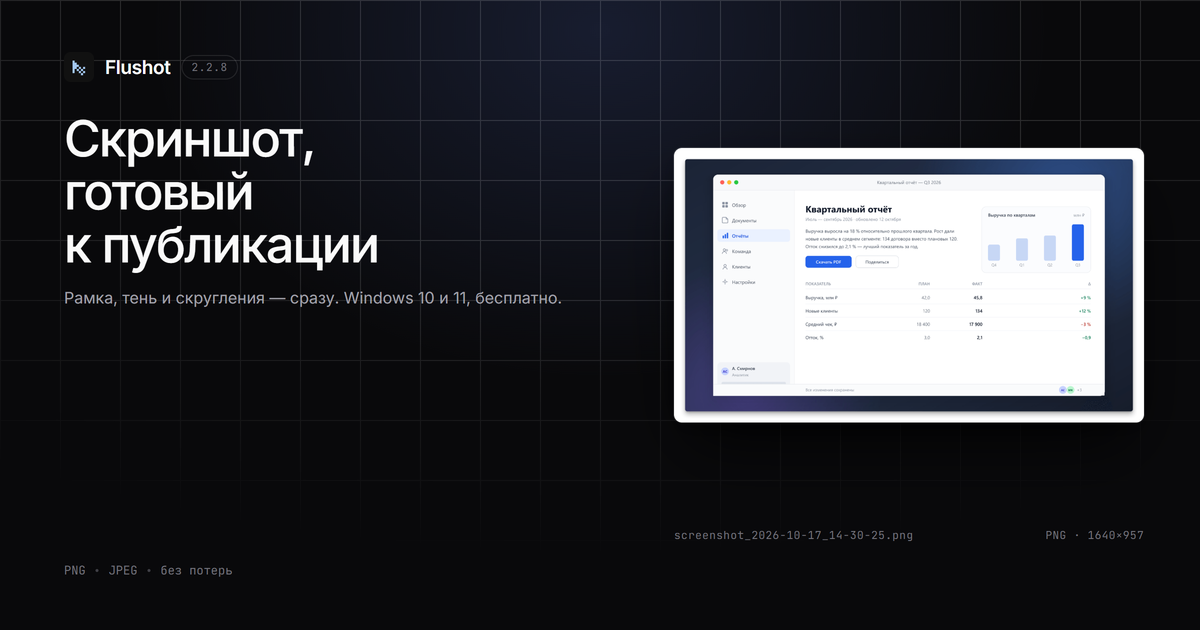
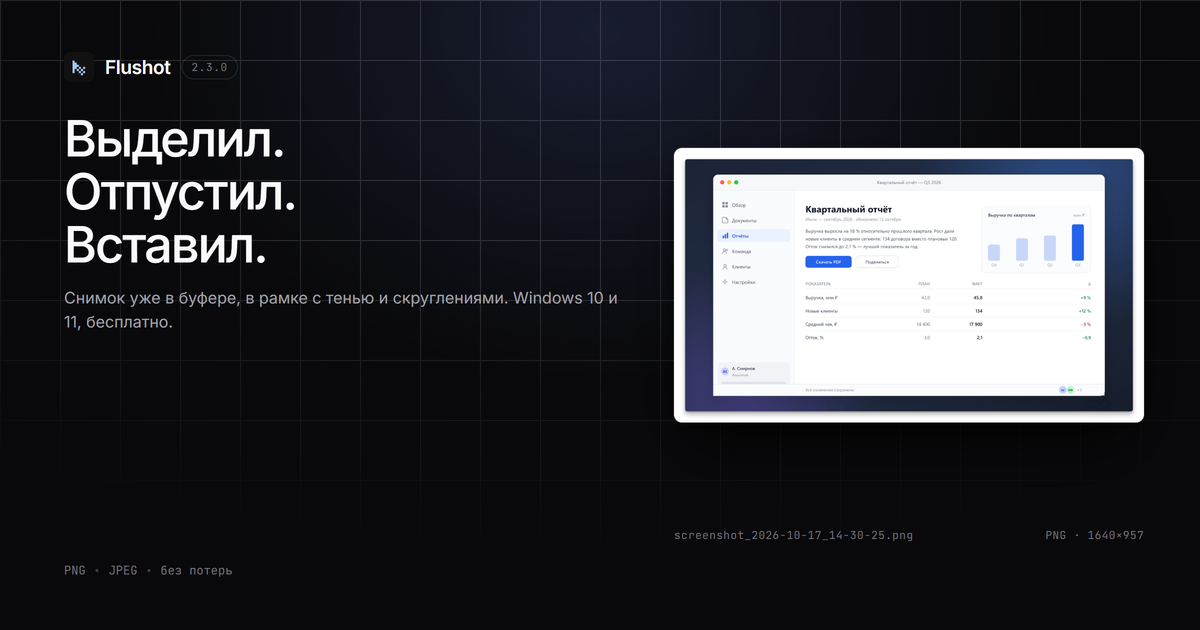
Say on the site what the release actually does, and record what is still weak
The headline promised framing, not speed, so the one thing the release changes was
invisible to anyone arriving from a link: a stranger read "скриншот за пару
секунд" and had no reason to think the copy step was gone. The hero now says it in
three words, and the walkthrough lost a step because there is no longer a third
one.

The feature block keeps nine cards. A tenth would have left a lone card on the
last row and pulled the bottom border off the two above it — the block is drawn as
one bordered box with hairline seams, so its cell count is part of the layout, not
a free parameter. The new card took the place of the one whose content moved into
its neighbour.

`docs/ROADMAP.md` gained the audit: what works but fails at the wrong moment, in
order of cost to benefit. Its first row is the honest one — the app cannot update
itself and never tells anyone a new version exists, which is how a fixed defect
stays broken on every machine that installed the old build.

The share archives were rebuilt from the 2.3.0 build and the note inside says what
the release does, including the cases where releasing the mouse deliberately does
not copy.

Changed region(s): [[0.0308, 0.181, 0.3392, 0.4222], [0.0308, 0.4524, 0.5242, 0.5429]]

diff --git a/site/index.html b/site/index.html
@@ -29,7 +29,7 @@
 <link rel="apple-touch-icon" href="apple-touch-icon.png?v=980e5cca">
 <link rel="manifest" href="site.webmanifest?v=06f0995b">
 <link rel="stylesheet" href="fonts.css?v=0b21389f">
-<link rel="stylesheet" href="styles.css?v=8ecff7f0">
+<link rel="stylesheet" href="styles.css?v=79581812">
 <link rel="preload" as="image" href="assets/hero.webp?v=8e6805fc" type="image/webp">
 
 <script>
@@ -59,7 +59,7 @@
            22 px, and declaring the intrinsic size keeps the aspect ratio honest. -->
       <img class="brand__mark" src="favicon.svg?v=a7643679" width="200" height="200" alt="" aria-hidden="true">
       <span class="brand__name">Flushot</span>
-      <span class="brand__ver">2.2.8</span>
+      <span class="brand__ver">2.3.0</span>
     </a>
 
     <button class="nav-toggle" type="button" aria-expanded="false" aria-controls="nav" aria-label="Меню">
@@ -94,15 +94,16 @@
   <section class="hero" id="top">
     <div class="hero__grid" aria-hidden="true"></div>
     <div class="wrap hero__inner">
-      <p class="eyebrow" data-rise style="--d: 0.05s">Windows 10 и 11 · версия 2.2.8 · бесплатно</p>
+      <p class="eyebrow" data-rise style="--d: 0.05s">Windows 10 и 11 · версия 2.3.0 · бесплатно</p>
       <h1 class="hero__title" data-rise style="--d: 0.1s">
-        <span>Скриншот</span>
-        <span>за пару секунд</span>
-        <span>и без возни.</span>
+        <span>Выделил.</span>
+        <span>Отпустил.</span>
+        <span>Вставил.</span>
       </h1>
       <p class="hero__sub" data-rise style="--d: 0.16s">
-        Выделили область — снимок уже в рамке, с мягкой тенью и скруглёнными углами.
-        Ровная линия для подчёркивания, снимок всего экрана одной клавишей, PNG без потерь.
+        Между горячей клавишей и <kbd>Ctrl</kbd>+<kbd>V</kbd> больше нет ни одного нажатия: снимок
+        оказывается в буфере обмена в тот момент, когда вы отпустили кнопку мыши. Уже в рамке,
+        с мягкой тенью и скруглёнными углами.
       </p>
       <div class="hero__actions" data-rise style="--d: 0.22s">
         <a class="btn btn--primary btn--lg" href="#download">
@@ -140,6 +141,15 @@
       </div>
 
       <div class="feature-grid">
+        <article class="feature">
+          <div class="feature__mark" aria-hidden="true">
+            <svg viewBox="0 0 24 24" fill="none" stroke="currentColor" stroke-width="1.8" stroke-linecap="round" stroke-linejoin="round"><rect x="4" y="4" width="16" height="16" rx="3" stroke-dasharray="3 3"/><path d="M8 12h8"/><path d="M13 9l3 3-3 3"/></svg>
+          </div>
+          <h3 class="feature__name">Сразу в буфере</h3>
+          <p class="feature__text">Отпустили кнопку мыши — снимок готов к вставке. Ни <kbd>Ctrl</kbd>+<kbd>C</kbd>, ни лишнего окна.</p>
+          <p class="feature__tag">выделил → вставил</p>
+        </article>
+
         <article class="feature">
           <div class="feature__mark" aria-hidden="true">
             <svg viewBox="0 0 24 24" fill="none" stroke="currentColor" stroke-width="1.8" stroke-linecap="round"><path d="M4 17h16"/><circle cx="4" cy="17" r="1.6"/><circle cx="20" cy="17" r="1.6"/></svg>
@@ -187,19 +197,10 @@
 
         <article class="feature">
           <div class="feature__mark" aria-hidden="true">
-            <svg viewBox="0 0 24 24" fill="none" stroke="currentColor" stroke-width="1.8" stroke-linecap="round"><rect x="3" y="3" width="18" height="18" rx="3"/><path d="M7 15h10"/></svg>
-          </div>
-          <h3 class="feature__name">Кнопки не пропадают</h3>
-          <p class="feature__text">Выделили весь экран — панель с кнопками осталась на виду, искать её по краям не нужно.</p>
-          <p class="feature__tag">даже у края экрана</p>
-        </article>
-
-        <article class="feature">
-          <div class="feature__mark" aria-hidden="true">
             <svg viewBox="0 0 24 24" fill="none" stroke="currentColor" stroke-width="1.8" stroke-linecap="round"><path d="M3 8V4h4M21 8V4h-4M3 16v4h4M21 16v4h-4"/><path d="M9 12h6"/></svg>
           </div>
           <h3 class="feature__name">Живой размер</h3>
-          <p class="feature__text">Размер в пикселях обновляется, пока тянете рамку. Рамку можно двигать целиком и менять за любой край.</p>
+          <p class="feature__text">Размер в пикселях обновляется, пока тянете рамку. Рамку можно двигать целиком, менять за любой край — и панель никогда не уезжает за экран.</p>
           <p class="feature__tag">1280 × 720 px</p>
         </article>
 
@@ -246,7 +247,7 @@
         <div class="pitch">
           <div class="section-head" style="margin-bottom: 0">
             <p class="eyebrow">Как это работает</p>
-            <h2 class="section-title" id="how-title">Три шага, пара секунд</h2>
+            <h2 class="section-title" id="how-title">Два шага, одно вставление</h2>
           </div>
 
           <ol class="pitch__list">
@@ -256,17 +257,13 @@
             </li>
             <li class="pitch__item">
               <span class="pitch__num" aria-hidden="true">2</span>
-              <span><strong>Выделите область.</strong> Размер показан рядом с рамкой и обновляется на ходу. Отпустили мышь — снимок готов.</span>
-            </li>
-            <li class="pitch__item">
-              <span class="pitch__num" aria-hidden="true">3</span>
-              <span><strong><kbd>Ctrl</kbd>+<kbd>C</kbd> или <kbd>Ctrl</kbd>+<kbd>S</kbd>.</strong> Снимок уходит в буфер или в папку — с датой в имени, поэтому ничего не перезаписывается.</span>
+              <span><strong>Отпустите мышь.</strong> Размер показан рядом с рамкой и обновляется на ходу. В момент отпускания снимок уже в буфере обмена — остаётся нажать <kbd>Ctrl</kbd>+<kbd>V</kbd> там, куда его вставляете.</span>
             </li>
           </ol>
 
           <p class="pitch__meta">
             <svg width="13" height="13" viewBox="0 0 24 24" fill="none" stroke="currentColor" stroke-width="2.4" stroke-linecap="round" stroke-linejoin="round" aria-hidden="true"><path d="M20 6L9 17l-5-5"/></svg>
-            PNG без потерь · JPEG и WebP по желанию
+            PNG без потерь · файл в папке · пометки по <kbd>Shift</kbd>
           </p>
         </div>
       </div>
@@ -513,7 +510,7 @@
     <div class="wrap">
       <div class="section-head">
         <p class="eyebrow">Скачать</p>
-        <h2 class="section-title" id="download-title">Версия 2.2.8 для Windows</h2>
+        <h2 class="section-title" id="download-title">Версия 2.3.0 для Windows</h2>
         <p class="section-lead">Три варианта одной и той же сборки. Программа внутри одинаковая — выбирайте по способу установки.</p>
       </div>
 
@@ -525,16 +522,16 @@
           </div>
           <p class="dl-card__text">Распаковать в любую папку и запустить <code>Flushot.exe</code>. Ничего не устанавливается, временная папка Windows не нужна.</p>
           <p class="dl-card__meta"><span>161 МБ</span><span>ZIP</span><span>без установки</span></p>
-          <a class="btn btn--primary" href="https://github.com/aeshtlv/Flushot/releases/latest/download/Flushot-2.2.8-win64.zip">Скачать ZIP</a>
+          <a class="btn btn--primary" href="https://github.com/aeshtlv/Flushot/releases/latest/download/Flushot-2.3.0-win64.zip">Скачать ZIP</a>
         </article>
 
         <article class="dl-card">
           <div class="dl-card__top">
             <h3 class="dl-card__name">Установщик</h3>
           </div>
-          <p class="dl-card__text">Внутри <code>Flushot-2.2.8-x64.exe</code>. Двойной клик, «Установить» — появятся ярлыки в меню «Пуск» и строка удаления.</p>
+          <p class="dl-card__text">Внутри <code>Flushot-2.3.0-x64.exe</code>. Двойной клик, «Установить» — появятся ярлыки в меню «Пуск» и строка удаления.</p>
           <p class="dl-card__meta"><span>113 МБ</span><span>ZIP</span><span>NSIS</span></p>
-          <a class="btn btn--ghost" href="https://github.com/aeshtlv/Flushot/releases/latest/download/Flushot-2.2.8-installer.zip">Скачать ZIP</a>
+          <a class="btn btn--ghost" href="https://github.com/aeshtlv/Flushot/releases/latest/download/Flushot-2.3.0-installer.zip">Скачать ZIP</a>
         </article>
 
         <article class="dl-card">
@@ -543,7 +540,7 @@
           </div>
           <p class="dl-card__text">Один файл без установки. При первом запуске распаковывается во временную папку, поэтому нужен рабочий <code>%TEMP%</code>.</p>
           <p class="dl-card__meta"><span>113 МБ</span><span>ZIP</span><span>один файл</span></p>
-          <a class="btn btn--ghost" href="https://github.com/aeshtlv/Flushot/releases/latest/download/Flushot-2.2.8-portable.zip">Скачать ZIP</a>
+          <a class="btn btn--ghost" href="https://github.com/aeshtlv/Flushot/releases/latest/download/Flushot-2.3.0-portable.zip">Скачать ZIP</a>
         </article>
       </div>
 
@@ -562,6 +559,12 @@
       </div>
 
       <div class="faq">
+        <details open>
+          <summary>Снимок попал в буфер сам. Так и должно быть?</summary>
+          <p>Да, это основной режим. Отпускание кнопки мыши копирует готовую карточку в буфер обмена и закрывает оверлей, поэтому вставлять можно сразу: <kbd>Ctrl</kbd>+<kbd>V</kbd> в чате, письме или документе. Нажимать <kbd>Ctrl</kbd>+<kbd>C</kbd> не нужно.</p>
+          <p>Пометки и сохранение никуда не делись: <kbd>Shift</kbd>, удерживаемый в момент отпускания, открывает снимок в редакторе, и то же самое делает переключатель «После выделения → Открывать» в настройках. Случайное нажатие и область меньше 24 × 24 px не копируются — буфер обмена остаётся прежним.</p>
+        </details>
+
         <details>
           <summary>Windows пишет, что программа небезопасна. Это опасно?</summary>
           <p>Нет. Предупреждение появляется из-за отсутствия цифровой подписи, а не из-за содержимого. Подпись — платный сертификат, который для бесплатной программы не покупают. Нажмите «Подробнее» → «Выполнить всё равно».</p>
@@ -570,7 +573,7 @@
         <details>
           <summary>Куда сохраняются снимки?</summary>
           <p>По умолчанию в <code>Изображения\Flushot</code>. Папку можно сменить в настройках, там же есть кнопка, которая открывает её в проводнике. Имя файла — дата и время, поэтому ничего не перезаписывается.</p>
-          <p>После «Создать» над карточкой появляется подпись «Сохранено · имя файла» — над кнопками, а не поверх них, и всегда на основном мониторе, даже если область выделяли на втором.</p>
+          <p>Файл пишется и тогда, когда снимок ушёл в буфер обмена: запись идёт после копирования и вставку не задерживает.</p>
         </details>
 
         <details>
@@ -675,7 +678,7 @@
           <svg class="btn__icon" width="15" height="15" viewBox="0 0 24 24" fill="none" stroke="currentColor" stroke-width="2" stroke-linecap="round" stroke-linejoin="round" aria-hidden="true">
             <path d="M12 3v12"/><path d="M7 11l5 5 5-5"/><path d="M4 20h16"/>
           </svg>
-          Скачать Flushot 2.2.8
+          Скачать Flushot 2.3.0
         </a>
         <a class="btn btn--ghost btn--lg" href="#faq">Сначала вопросы</a>
       </div>
@@ -688,7 +691,7 @@
   <div class="footer__inner">
     <div class="footer__brand">
       <img class="brand__mark" src="favicon.svg?v=a7643679" width="200" height="200" alt="" aria-hidden="true">
-      <span>Версия 2.2.8 · Windows 10 и 11 · © 2026 Flushot</span>
+      <span>Версия 2.3.0 · Windows 10 и 11 · © 2026 Flushot</span>
     </div>
     <nav class="footer__links" aria-label="Навигация в подвале">
       <a href="#features">Возможности</a>
@@ -708,7 +711,7 @@
   "name": "Flushot",
   "applicationCategory": "UtilitiesApplication",
   "operatingSystem": "Windows 10, Windows 11",
-  "softwareVersion": "2.2.8",
+  "softwareVersion": "2.3.0",
   "description": "Бесплатная программа для скриншотов на Windows: выделение области, рамка с тенью, ровная линия для подчёркивания, снимок всего экрана одной клавишей.",
   "offers": { "@type": "Offer", "price": "0", "priceCurrency": "RUB" },
   "inLanguage": "ru"

diff --git a/site/styles.css b/site/styles.css
@@ -666,13 +666,14 @@ code {
   transition: background 0.2s;
 }
 
+/* The right-hand column of the grid ends at the grid's own border, so those
+   cells drop their right border or the line doubles. */
 .feature:nth-child(3n) {
   border-right: 0;
 }
 
-/* The closing edge is the grid's own border, so the cells in the final row must
-   drop theirs or the line doubles. Nine features in three columns make a full
-   final row, so all three of its cells lose the border. */
+/* Same for the closing edge: the last row is full, so all three of its cells drop
+   their bottom border. */
 .feature:nth-last-child(-n + 3) {
   border-bottom: 0;
 }

diff --git a/site/404.html b/site/404.html
@@ -12,7 +12,7 @@
 <link rel="icon" href="favicon-32.png?v=67a7ece7" sizes="32x32" type="image/png">
 <link rel="apple-touch-icon" href="apple-touch-icon.png?v=980e5cca">
 <link rel="stylesheet" href="fonts.css?v=0b21389f">
-<link rel="stylesheet" href="styles.css?v=8ecff7f0">
+<link rel="stylesheet" href="styles.css?v=79581812">
 <script>
   (function () {
     try {

diff --git a/README.en.md b/README.en.md
@@ -1,11 +1,11 @@
 # Flushot
 
-A screenshot tool for Windows. Select a region and get a finished picture in a neat frame with a soft
-shadow and rounded corners, at full resolution. Windows 10 and 11, x64.
+A screenshot tool for Windows. Select a region and the picture is already on the clipboard, ready to
+paste, in a neat frame with a soft shadow and rounded corners, at full resolution. Windows 10 and 11, x64.
 
 [![CI](https://github.com/aeshtlv/Flushot/actions/workflows/ci.yml/badge.svg)](https://github.com/aeshtlv/Flushot/actions/workflows/ci.yml)
 [![License: MIT](https://img.shields.io/badge/license-MIT-4c8bf5)](LICENSE)
-[![Version](https://img.shields.io/badge/version-2.2.8-4c8bf5)](CHANGELOG.md)
+[![Version](https://img.shields.io/badge/version-2.3.0-4c8bf5)](CHANGELOG.md)
 
 <p align="center">
   <img src="logo/logo.png" alt="Flushot" width="112">
@@ -17,17 +17,22 @@ shadow and rounded corners, at full resolution. Windows 10 and 11, x64.
 
 ## Features
 
+- **Select, release, paste.** Letting go of the mouse button copies the finished picture to the
+  clipboard and closes the overlay, so `Ctrl+V` is the only key left to press. `Ctrl+C` is not needed.
 - **Any region.** The result is your selection plus a frame, so any size works: 300×270 or 3840×2160.
   Pixels are copied one to one; nothing is stretched.
 - **Framing.** Frame width 0–200 px on all four sides, colour of your choice, rounded corners, a soft
   shadow with adjustable intensity and radius — or a clean screenshot with no border.
 - **Annotations.** Arrow, line, rectangle, freehand, text with word wrapping, numbered steps, blur and
-  pixelate. Finished annotations can be moved.
+  pixelate. Finished annotations can be moved. Holding `Shift` while releasing the mouse opens the
+  picture for annotating instead of copying it.
 - **Text recognition.** The "Text" button reads the screenshot or a selected fragment with the built-in
   Windows OCR engine: offline, nothing downloaded, the image never leaves the machine. The recognised
   text is editable in the panel.
-- **Copy and save.** `Ctrl+C` straight to the clipboard, even mid-selection. `Ctrl+S` to a file.
-  Optional auto-save, filenames like `screenshot_2026-10-17_14-30-25.png`, PNG, JPEG and WebP.
+- **Copy and save.** `Ctrl+C` to the clipboard at any moment, including mid-selection. `Ctrl+S` to a
+  file. Optional auto-save — the file is still written after an automatic copy, placed after the
+  clipboard and never delaying the paste. Filenames like `screenshot_2026-10-17_14-30-25.png`,
+  PNG, JPEG and WebP.
 - **Monitors and DPI.** The selection crosses monitor boundaries and the result is stitched at native
   resolution. Correct at Windows scaling 100, 125, 150 and 200 %.
 - **Tray and hotkeys.** Separate hotkeys for a region and for the whole screen, run at login, tray icon
@@ -40,9 +45,9 @@ all three; only the installation method differs.
 
 | File | Description |
 |---|---|
-| **[Flushot-2.2.8-win64.zip](../../releases/latest/download/Flushot-2.2.8-win64.zip)** | 161 MB. Unpack anywhere and run `Flushot.exe`. Does not need a writable `%TEMP%` — recommended |
-| [Flushot-2.2.8-installer.zip](../../releases/latest/download/Flushot-2.2.8-installer.zip) | 113 MB. NSIS installer: Start menu shortcuts, install location, uninstaller |
-| [Flushot-2.2.8-portable.zip](../../releases/latest/download/Flushot-2.2.8-portable.zip) | 113 MB. Portable single file, no installation |
+| **[Flushot-2.3.0-win64.zip](../../releases/latest/download/Flushot-2.3.0-win64.zip)** | 161 MB. Unpack anywhere and run `Flushot.exe`. Does not need a writable `%TEMP%` — recommended |
+| [Flushot-2.3.0-installer.zip](../../releases/latest/download/Flushot-2.3.0-installer.zip) | 113 MB. NSIS installer: Start menu shortcuts, install location, uninstaller |
+| [Flushot-2.3.0-portable.zip](../../releases/latest/download/Flushot-2.3.0-portable.zip) | 113 MB. Portable single file, no installation |
 
 The binaries are not code-signed, so SmartScreen warns on first launch: **More info → Run anyway**.
 That is standard behaviour for an unsigned executable.
@@ -62,7 +67,7 @@ npm run dev
 
 ```bash
 npm run typecheck    # tsc for main and renderer
-npm test             # 351 tests in 23 files
+npm test             # 360 tests in 24 files
 npm run build        # production build in out/
 npm run dist         # installer and portable build in release/
 npm run self-test    # end-to-end check on a live system
@@ -74,7 +79,9 @@ npm run self-test    # end-to-end check on a live system
 |---|---|
 | `Ctrl+Shift+S` | start selecting a region |
 | `Ctrl+Shift+3` | capture the whole screen |
-| `Enter` | confirm the selection |
+| release the mouse | the picture is already on the clipboard |
+| `Shift` on release | open the picture for annotating instead of copying |
+| `Enter` | confirm the selection and open the picture |
 | `Ctrl+C` | copy to the clipboard without a preview |
 | `Ctrl+S` | save the result |
 | `Ctrl+Z` | undo the last annotation |
@@ -82,6 +89,9 @@ npm run self-test    # end-to-end check on a live system
 | `Shift` while drawing a line | snap to 0°, 45° or 90° |
 
 Both capture hotkeys are configurable, including a single key without modifiers.
+
+Copying on release can be turned off: settings → "Снимок" → "После выделения" → "Открывать".
+Releasing the mouse then shows the annotation bar and `Ctrl+C` copies, as it did before.
 
 ## Limitations
 

diff --git a/docs/GITHUB.md b/docs/GITHUB.md
@@ -30,11 +30,13 @@
    - `Flushot-<версия>-installer.zip`
    - `Flushot-<версия>-portable.zip`
 
-Через веб-интерфейс: **Releases → Draft a new release**. Через GitHub CLI:
+Через веб-интерфейс: **Releases → Draft a new release**. Через GitHub CLI — версию
+берём из `package.json`, чтобы команда не разошлась с тем, что собрано:
 
 ```bash
-gh release create v2.2.8 --title "Flushot 2.2.8" --notes-file CHANGELOG.md ^
-  share/Flushot-2.2.8-win64.zip share/Flushot-2.2.8-installer.zip share/Flushot-2.2.8-portable.zip
+V=$(node -p "require('./package.json').version")
+gh release create "v$V" --title "Flushot $V" --notes-file CHANGELOG.md \
+  "share/Flushot-$V-win64.zip" "share/Flushot-$V-installer.zip" "share/Flushot-$V-portable.zip"
 ```
 
 4. Обновить `CHANGELOG.md` и имена архивов в `README.md`, `README.en.md` и `site/index.html`,

diff --git a/docs/HOSTING.md b/docs/HOSTING.md
@@ -28,8 +28,8 @@
 
 ```bash
 ssh root@78.17.32.87
-bash /root/deploy-site.sh          # ветка main
-bash /root/deploy-site.sh v2.2.8   # или конкретный тег
+bash /root/deploy-site.sh            # ветка main
+bash /root/deploy-site.sh v2.3.0     # или конкретный тег
 ```
 
 Скрипт и конфиги лежат в репозитории, в папке `deploy/`; на сервере они просто скопированы.

diff --git a/CONTRIBUTING.md b/CONTRIBUTING.md
@@ -18,7 +18,7 @@ npm run dev
 
 ```bash
 npm run typecheck    # обязателен: tsc для main и renderer
-npm test             # обязателен: 351 тест
+npm test             # обязателен: 360 тестов
 ```
 
 Оба шага прогоняет CI (`.github/workflows/ci.yml`) на Windows. Если правка касается интерфейса,
